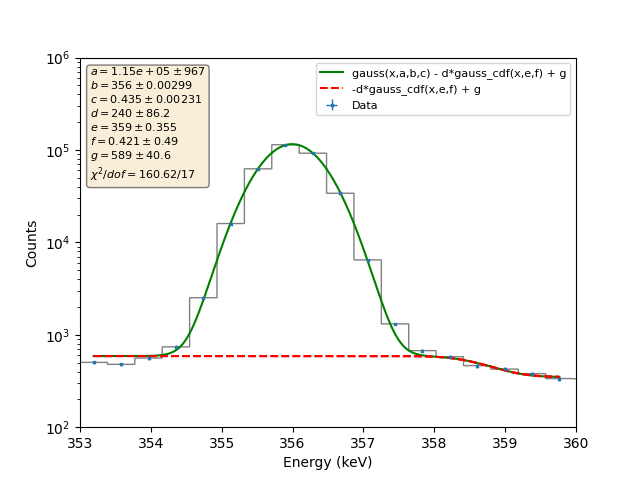
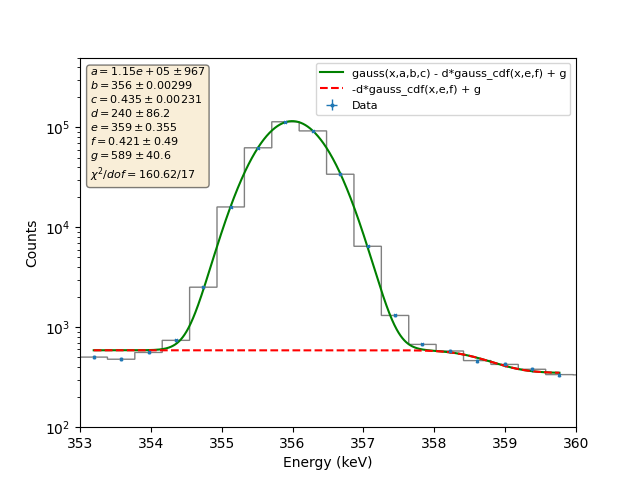
81kev double peak fit

diff --git a/Ba133_analysis/Ba133_dlt_analysis.py b/Ba133_analysis/Ba133_dlt_analysis.py
@@ -51,7 +51,10 @@ def main():
     #_________Construct dlt observable________
     print("")
     print("Constructing Ba133 dead layer observable...")
-    print("356 peak:")
+
+    #_______________356keV peak___________
+    print("")
+    print("356 peak...")
 
 
     #fit peak with gaussian and cdf
@@ -61,8 +64,7 @@ def main():
     a,b,c,d,e,f,g = popt[0],popt[1],popt[2],popt[3],popt[4],popt[5],popt[6] 
     counts, bins, bars = plt.hist(calibrated_energy, bins=no_bins, histtype='step', color='grey')
     plt.xlim(xmin_356, xmax_356) 
-    plt.ylim(100, 10**6)
-    plt.plot(xfit, -1*d*gaussian_cdf(xfit,e,f) + g, "r--", ms = 0.5, label ="-d*gauss_cdf(x,e,f) + g")
+    plt.ylim(100, 0.5*10**6)
     plt.yscale("log")
     plt.savefig("/lfs/l1/legend/users/aalexander/HADES_detchar/Ba133_analysis/plots/356keV_dlt.png")
 
@@ -71,26 +73,25 @@ def main():
     fig, ax = plt.subplots()
     plt.plot(xfit, gaussian(xfit,a,b,c), "b--", label ="gauss(x,a,b,c)")
     plt.yscale("log")
-    integral = gauss_count(a, b, c)
-    print("gauss count: ", integral)
+    C_356 = gauss_count(a, b, c)
+    print("gauss count: ", C_356)
     plt.xlim(xmin_356, xmax_356) 
     plt.xlabel("Energy (keV)")
     plt.ylabel("Counts")
     plt.legend(loc="upper right", fontsize=9)
     props = dict(boxstyle='round', facecolor='wheat', alpha=0.5)
-    info_str = r'$C_{356} = %.3g$' % (integral)
+    info_str = r'$C_{356} = %.3g$' % (C_356)
     plt.text(0.02, 0.07, info_str, transform=ax.transAxes, fontsize=9,verticalalignment='top', bbox=props) #ax.text
     plt.savefig("/lfs/l1/legend/users/aalexander/HADES_detchar/Ba133_analysis/plots/356keV_dlt_signalonly.png")
 
 
-    #try other fits - constrained cdf - doesnt work?
+    #try other fits - constrained cdf
     plt.figure()
     popt, pcov, xfit = fit_peak_356_2("Energy (keV)", bins_cal, counts, xmin_356, xmax_356)
     a,b,c,d,e = popt[0],popt[1],[2],popt[3],popt[4]
     counts, bins, bars = plt.hist(calibrated_energy, bins=no_bins, histtype='step', color='grey')
     plt.xlim(xmin_356, xmax_356) 
-    plt.ylim(100, 10**6)
-    plt.plot(xfit, -1*d*gaussian_cdf(xfit,b,c) + e, "r--", ms = 0.5, label ="-d*gauss_cdf(x,b,c) + e")
+    plt.ylim(100, 0.5*10**6)
     plt.yscale("log")
     plt.savefig("/lfs/l1/legend/users/aalexander/HADES_detchar/Ba133_analysis/plots/356keV_dlt_2.png")
 
@@ -99,11 +100,50 @@ def main():
     a,b,c,d,e,f = popt[0],popt[1],[2],popt[3],popt[4],popt[5]
     counts, bins, bars = plt.hist(calibrated_energy, bins=no_bins, histtype='step', color='grey')
     plt.xlim(xmin_356, xmax_356) 
-    plt.ylim(100, 10**6)
-    plt.plot(xfit, -1*d*gaussian_cdf(xfit,b,e) + f, "r--", ms = 0.5, label ="-d*gauss_cdf(x,b,e) + f")
+    plt.ylim(100, 0.5*10**6)
     plt.yscale("log")
     plt.savefig("/lfs/l1/legend/users/aalexander/HADES_detchar/Ba133_analysis/plots/356keV_dlt_3.png")
 
+
+
+    #__________79.6/81keV double peak____________
+    print("")
+    print("79.6/81 keV double peak...")
+
+
+    #fit peak with double gaussian and double cdf
+    xmin_81, xmax_81 = 77, 83.5 #kev
+    plt.figure()
+    popt, pcov, xfit = fit_double_peak_81("Energy (keV)", bins_cal, counts, xmin_81, xmax_81)
+    a,b,c,d,e,f,g,h = popt[0],popt[1],popt[2],popt[3],popt[4],popt[5],popt[6],popt[7] 
+    counts, bins, bars = plt.hist(calibrated_energy, bins=no_bins, histtype='step', color='grey')
+    plt.xlim(xmin_81, xmax_81) 
+    plt.ylim(500, 10**6)
+    plt.yscale("log")
+    plt.savefig("/lfs/l1/legend/users/aalexander/HADES_detchar/Ba133_analysis/plots/81keV_dlt.png")
+
+    #plot signal only and calculate integral
+    fig, ax = plt.subplots()
+    R = 2.65/32.9
+    plt.plot(xfit, gaussian(xfit,a,b,c) + R*gaussian(xfit,a,d,e), "b--", label ="gauss(x,a,b,c) + R*gauss(x,a,d,e)")
+    plt.yscale("log")
+    C_81 = gauss_count(a, b, c)
+    C_79 = gauss_count(R*a,d,e)
+    print("gauss count 81: ", C_81)
+    print("gauss count 79: ", C_79)
+    plt.xlim(xmin_81, xmax_81)
+    plt.ylim(100,10**6) 
+    plt.xlabel("Energy (keV)")
+    plt.ylabel("Counts")
+    plt.legend(loc="upper right", fontsize=9)
+    props = dict(boxstyle='round', facecolor='wheat', alpha=0.5)
+    info_str = '\n'.join(( r'$C_{81} = %.3g$' % (C_81), r'$C_{79.6} = %.3g$' % (C_79)))
+    plt.text(0.02, 0.98, info_str, transform=ax.transAxes, fontsize=9,verticalalignment='top', bbox=props) #ax.text
+    plt.savefig("/lfs/l1/legend/users/aalexander/HADES_detchar/Ba133_analysis/plots/81keV_dlt_signalonly.png")
+
+
+    O_Ba133 = (C_79 + C_81)/C_356
+    print("O_BA133 = " , O_Ba133)
 
 
     
@@ -160,6 +200,13 @@ def gaussian_and_bkg_2(x, a, b, c, d, e):
 def gaussian_and_bkg_3(x, a, b, c, d, e, f):
     "fit function for 356kev peak - cdf fixed to the just same mean as gaussian, different sigma"
     f = gaussian(x, a, b, c) - d*gaussian_cdf(x, b, e) + f
+    return f
+
+def double_gaussian_and_bkg(x,a,b,c,d,e,f,g,h):
+    "fit function for Ba-133 79/81keV double peak - double gaussian and double cdf step, constrained bkg to mean and sigma of gauss"
+
+    R = 2.65/32.9 #intensity ratio for Ba-133 double peak
+    f = gaussian(x, a, b, c) + R*gaussian(x, a, d, e) - f*gaussian_cdf(x,b,c) - g*gaussian_cdf(x, d, e) + h 
     return f
 
 def linear_fit(x, m, c):
@@ -370,6 +417,61 @@ def fit_peak_356_3(key, bins, counts, xmin, xmax):
     props = dict(boxstyle='round', facecolor='wheat', alpha=0.5)
     info_str = '\n'.join((r'$a=%.3g \pm %.3g$' % (a, np.sqrt(pcov[0][0])), r'$b=%.3g \pm %.3g$' % (b, np.sqrt(pcov[1][1])), r'$c=%.3g \pm %.3g$' % (c, np.sqrt(pcov[2][2])), r'$d=%.3g \pm %.3g$' % (d, np.sqrt(pcov[3][3])), r'$e=%.3g \pm %.3g$' % (e, np.sqrt(pcov[4][4])), r'$f=%.3g \pm %.3g$' % (f, np.sqrt(pcov[5][5])), r'$\chi^2/dof=%.2f/%.0f$'%(chi_sq, dof)))
     plt.text(0.02, 0.98, info_str, transform=ax.transAxes, fontsize=8,verticalalignment='top', bbox=props) #ax.text..ax.tra
+
+    return popt, pcov, xfit
+
+
+def fit_double_peak_81(key, bins, counts, xmin, xmax):
+    "fit the double 79.6 /81 keV peak with gaussian +cdf bkg - cdf mean and sigma constrained to that of gaussian"
+
+    no_bins = bins.size 
+
+    xdata = []
+    ydata = []
+    for bin in bins:
+        bin_centre = bin + 0.5*(max(bins)-(min(bins)))/no_bins 
+        if bin_centre < xmax and bin_centre > xmin:
+            xdata.append(bin_centre)
+            bin_index = np.where(bins == bin)[0][0]
+            ydata.append(counts[bin_index])
+
+    xdata = np.array(xdata)
+    ydata = np.array(ydata)     
+
+    yerr = np.sqrt(ydata) #counting error
+
+    #initial rough guess of params
+    aguess = max(ydata) - min(ydata) #gauss amplitude
+    bguess = 81.0 #gauss 81 mean
+    cguess =  1 #gauss 81 sigma
+    dguess =  79.6 #gauss 79.6 mean
+    eguess = 1 #gauss 79.6 sigma
+    fguess = 100 #cdf 81 amp
+    gguess = 100 #cdf 79.6 amp
+    hguess = min(ydata) #offset
+    p_guess = [aguess,bguess,cguess,dguess,eguess, fguess, gguess, hguess]
+    print(p_guess)
+    bounds=([0, 0, 0, 0, 0, -np.inf, -np.inf, -np.inf], [np.inf]*8)
+
+    popt, pcov = optimize.curve_fit(double_gaussian_and_bkg, xdata, ydata, p0=p_guess, sigma = yerr, maxfev = 10**7, method ="trf", bounds = bounds)
+    print(popt)
+    a,b,c,d,e,f,g,h = popt[0],popt[1],popt[2],popt[3],popt[4],popt[5],popt[6], popt[7]
+
+    fig, ax = plt.subplots()
+    #ax.errorbar(xdata, ydata, xerr=0, yerr =yerr, label = "Data", elinewidth = 1, fmt='x', ms = 0.75, mew = 3.0)
+    plt.errorbar(xdata, ydata, xerr=0, yerr =yerr, label = "Data", elinewidth = 1, fmt='x', ms = 0.75, mew = 3.0)
+    xfit = np.linspace(min(xdata), max(xdata), 1000)
+    plt.plot(xfit, double_gaussian_and_bkg(xfit,*popt), "g", label = "gauss(x,a,b,c) + R*gauss(x,a,d,e) - f*gauss_cdf(x,b,c) -g*gauss_cdf(x,d,e) + h") 
+    plt.plot(xfit, -1*f*gaussian_cdf(xfit,b,c) -g*gaussian_cdf(xfit,d,e) + h, "r--", label ="-f*gauss_cdf(x,b,c) -g*gauss_cdf(x,d,e) + h")
+    plt.xlabel(key)
+    plt.ylabel("Counts")
+    plt.legend(loc="upper right", fontsize=8)
+
+    chi_sq, p_value, residuals, dof = chi_sq_calc(xdata, ydata, yerr, double_gaussian_and_bkg, popt)
+
+    props = dict(boxstyle='round', facecolor='wheat', alpha=0.5)
+    info_str = '\n'.join((r'$a=%.3g \pm %.3g$' % (a, np.sqrt(pcov[0][0])), r'$b=%.3g \pm %.3g$' % (b, np.sqrt(pcov[1][1])), r'$c=%.3g \pm %.3g$' % (c, np.sqrt(pcov[2][2])), r'$d=%.3g \pm %.3g$' % (d, np.sqrt(pcov[3][3])), r'$e=%.3g \pm %.3g$' % (e, np.sqrt(pcov[4][4])), r'$f=%.3g \pm %.3g$' % (f, np.sqrt(pcov[5][5])), r'$g=%.3g \pm %.3g$' % (g, np.sqrt(pcov[6][6])), r'$h=%.3g \pm %.3g$' % (h, np.sqrt(pcov[7][7])), r'$R=2.65/32.9$',r'$\chi^2/dof=%.2f/%.0f$'%(chi_sq, dof)))
+    plt.text(0.02, 0.82, info_str, transform=ax.transAxes, fontsize=8,verticalalignment='top', bbox=props) #ax.text..ax.tra
 
     return popt, pcov, xfit
 
